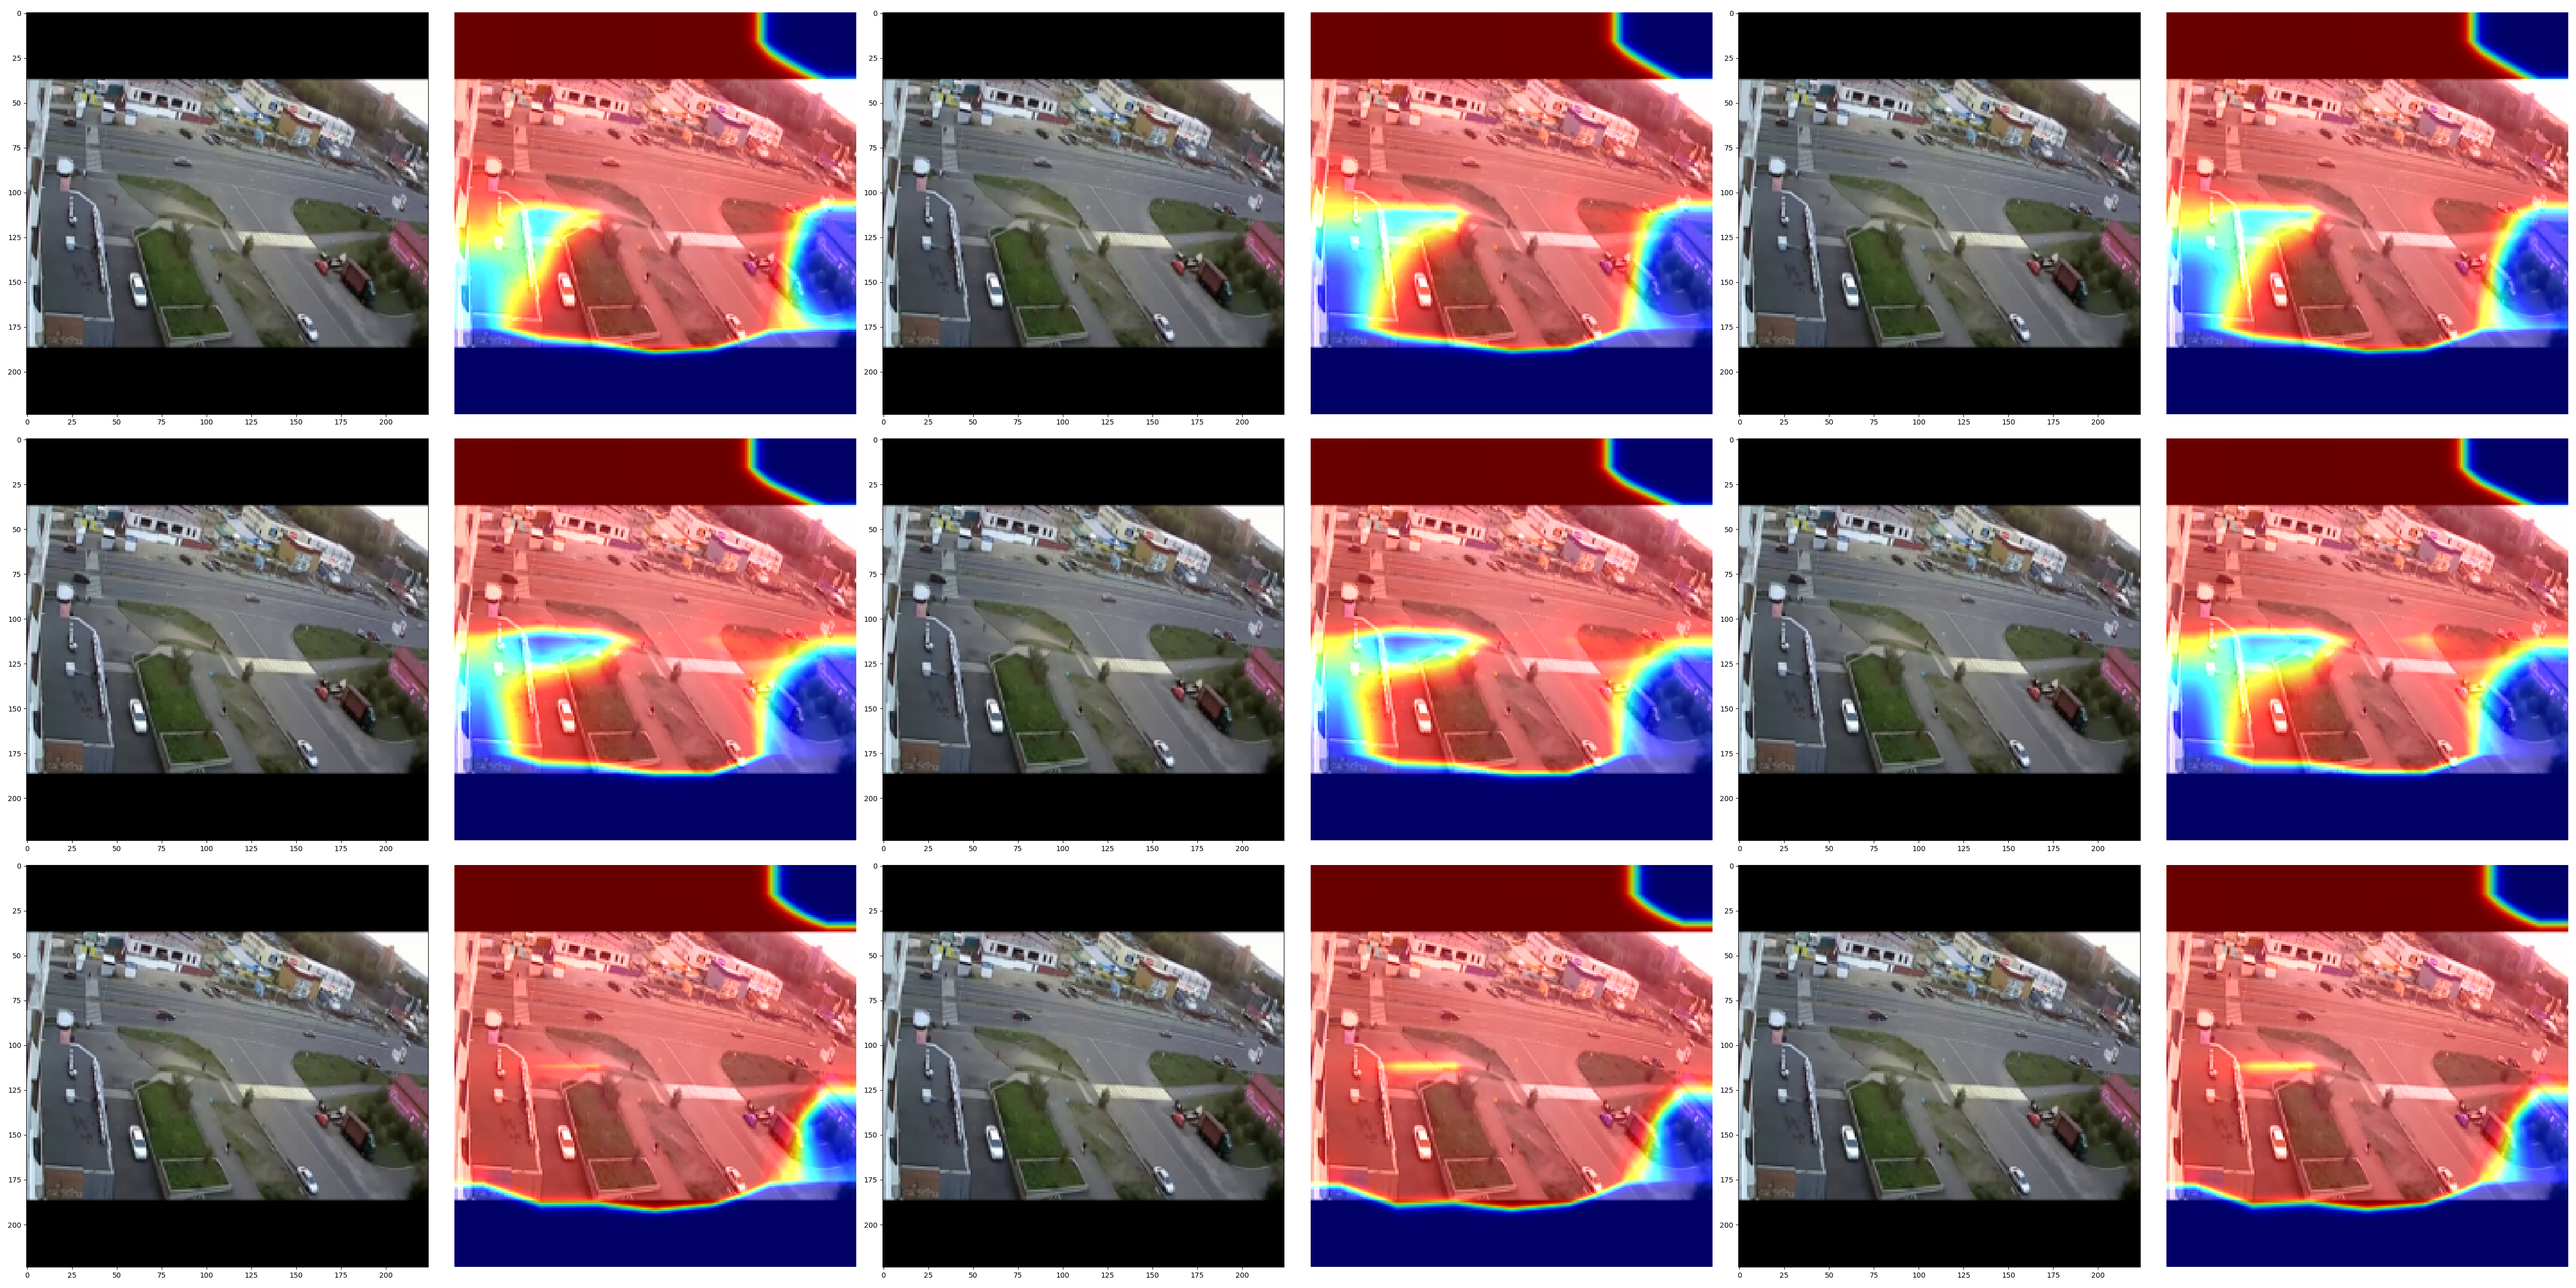
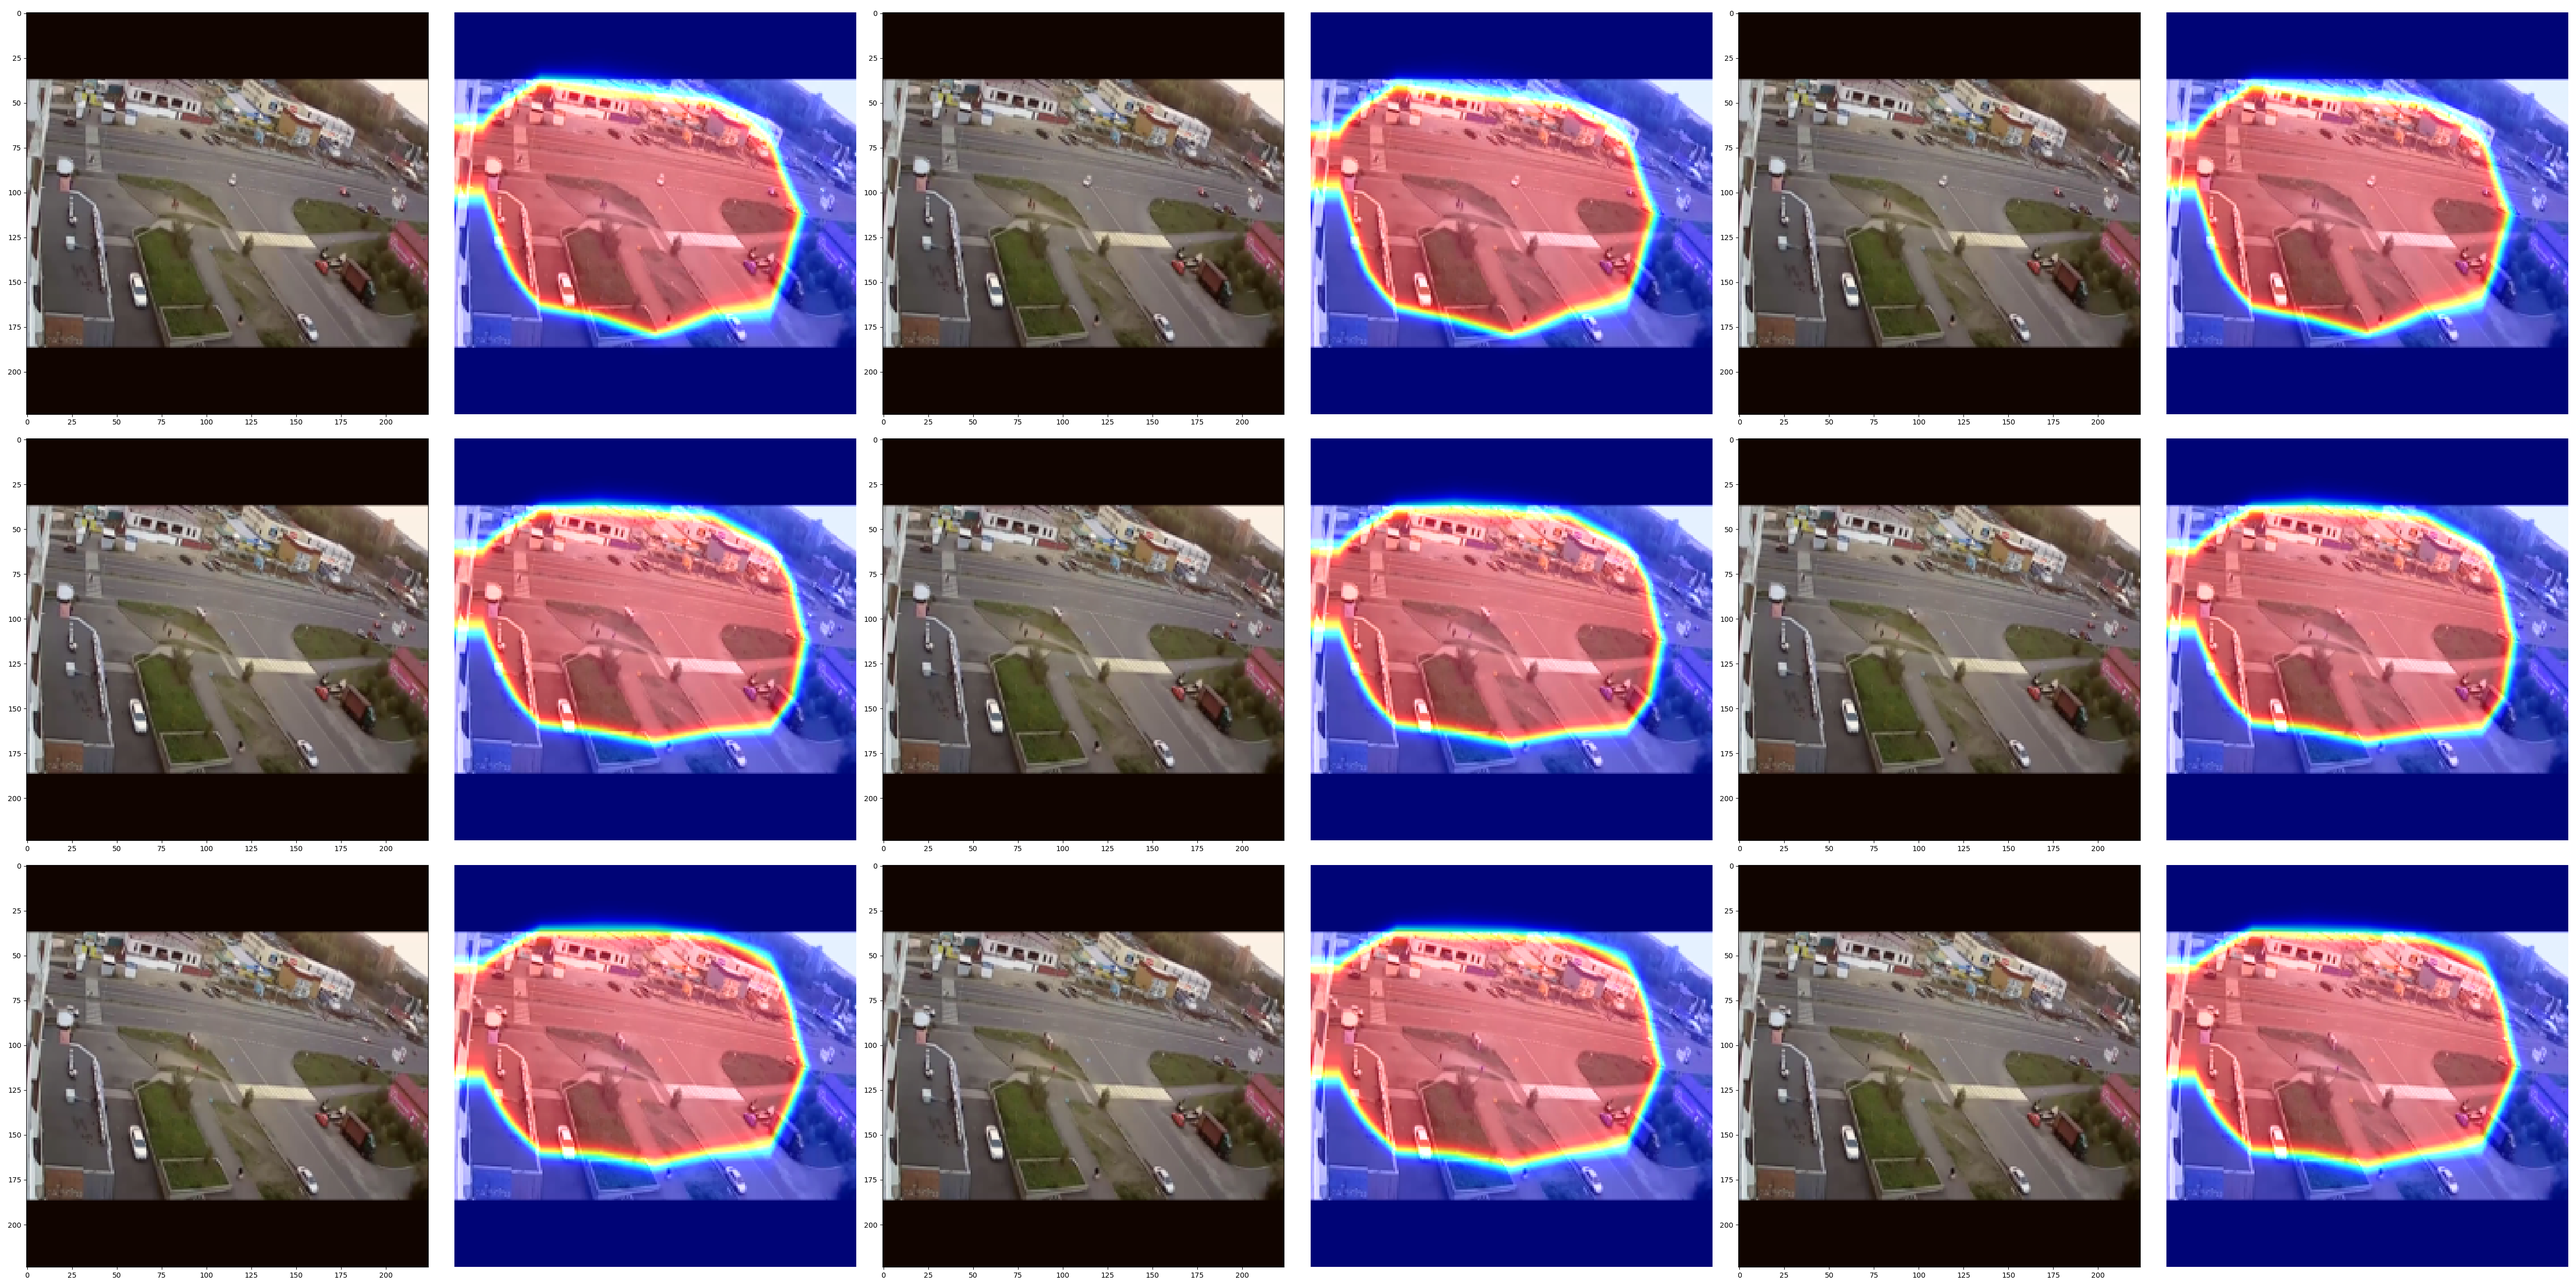
Add select model for prediction

diff --git a/templates/index.html b/templates/index.html
@@ -19,6 +19,21 @@
         </div>
         
         <div class="mb-3">
+            <select class="form-select" aria-label="Default select example" name="model_type">
+                <option selected value="All">All</option>
+                <option value="Mobile-Net">Mobile-Net</option>
+                <option value="VGG16">VGG16</option>
+                <option value="Res-Net 152v2">Res-Net 152v2</option>
+                <option value="Dense-Net 121">Dense-Net 121</option>
+                <option value="Inception v3">Inception v3</option>
+                <option value="CBAM">CBAM</option>
+                <!-- {% for name in backbone_info_name %}
+                    <option value="{{ name }}">{{name}}</option>                
+                {% endfor %} -->
+            </select>
+        </div>
+
+        <div class="mb-3">
             <label for="startTimestamp" class="form-label">Starting timestamp</label>
             <input class="form-control" type="number" placeholder="Default input" aria-label="default input example" id="startTimestamp" min="0" name="start" required>
         </div>
@@ -27,6 +42,7 @@
             <label for="endTimestamp" class="form-label">Ending timestamp</label>
             <input class="form-control" type="number" placeholder="Default input" aria-label="default input example" id="endTimestamp" min="0" name="end" required>
         </div>
+
         
         <button type="submit" class="btn btn-primary">Submit</button>
     </form>

diff --git a/templates/prediction.html b/templates/prediction.html
@@ -4,10 +4,20 @@
   href="{{ url_for('static', filename='prediction/style.css') }}"
 />
 {% endblock %} {% block head %}
-<title>Prediction</title>
+
+{% if model_type is defined %}
+  <title>Prediction with {{model_type}}</title>
+{% else %}
+  <title>Prediction</title>
+{% endif %}
+
 {% endblock %} {% block body %}
 <div class="container-fluid">
-  <h3>Prediction probabilitites</h3>
+  {% if model_type is defined %}
+    <h3>Prediction probabilitites with {{model_type}}</h3>
+  {% else %}
+    <h3>Prediction probabilitites</h3>
+  {% endif %}
   <div class="prediction-prob">
     <p>
       Accident: <span id="accident-propability">{{ accidentProbability }}</span>

diff --git a/models/cbam.py b/models/cbam.py
@@ -1,0 +1,158 @@
+
+from .dependencies import *
+
+class CBAM(keras.layers.Layer):
+    def __init__(self, **kwargs):
+        super().__init__(**kwargs)
+        self.depth_max_pool = keras.layers.Lambda(
+            lambda X: tf.expand_dims(tf.reduce_max(X, axis=-1), -1))
+        self.depth_avg_pool = keras.layers.Lambda(
+            lambda X: tf.expand_dims(tf.reduce_mean(X, axis=-1), -1))
+        self.concat = keras.layers.Lambda(
+            lambda X: tf.concat([X[0], X[1]], axis=-1))
+        self.conv_1 = Conv2D(filters=1, kernel_size=1)
+
+    def call(self, inputs):
+        filters = inputs.shape[-1]
+        U_s = self.concat((self.depth_max_pool(inputs), self.depth_avg_pool(inputs)))
+        V_s = tf.keras.activations.softmax(self.conv_1(U_s))
+        outputs = tf.multiply(inputs, V_s)
+        return outputs
+
+class ResidualUnit(keras.layers.Layer):
+    def __init__(self, filters, strides=1, is_first=False, activation="relu", **kwargs):
+        super().__init__(**kwargs)
+        self.activation = keras.activations.get(activation)
+        self.main_layers = [
+            Conv2D(filters=filters, strides=strides, kernel_size=1, padding="same"),
+            keras.layers.BatchNormalization(),
+            self.activation,
+            Conv2D(filters=filters, kernel_size=3, padding="same"),
+            keras.layers.BatchNormalization(),
+            self.activation,
+            Conv2D(filters=filters * 4, kernel_size=1, padding="same"),
+            keras.layers.BatchNormalization(),
+            CBAM(),
+            keras.layers.BatchNormalization()]
+        self.skip_layers = []
+        if strides > 1 or is_first:
+            self.skip_layers = [
+                Conv2D(filters=filters * 4, kernel_size=1, strides=strides, padding="same"),
+                keras.layers.BatchNormalization()]
+
+    def call(self, inputs):
+        Z = inputs
+        for layer in self.main_layers:
+            Z = layer(Z)
+        skip_Z = inputs
+        for layer in self.skip_layers:
+            skip_Z = layer(skip_Z)
+        return self.activation(Z + skip_Z)
+
+
+        """
+        RES1: input = (56, 56, 64), output = (56, 56, 256)
+        RES2: input = (56, 56, 256), output = (56, 56, 256)
+        RES3: input = (56, 56, 256), output = (56, 56, 256)
+        RES4: input = (56, 56, 256), output = (28, 28, 512)
+        """
+class VisualAttentionModule(keras.layers.Layer):
+  def __init__(self, **kwargs):
+    super().__init__(**kwargs)
+
+    self.output_H = 224
+    self.output_W = 224
+    # , input_shape=(self.output_H, self.output_W, 3)
+    self.conv_2d = Conv2D(64, kernel_size=7, strides=2, padding="same")
+    self.batch_norm = keras.layers.BatchNormalization()
+    self.activation = keras.layers.Activation("relu")
+    self.max_pool_2d = keras.layers.MaxPool2D(pool_size=3, strides=2, padding="SAME")
+    
+    self.filter_list = [64] * 2 + [128] * 4 + [256] * 6 + [512] * 3
+    
+    self.res_unit_list = list()
+    self.res_unit_list.append(ResidualUnit(self.filter_list[0], strides=1, is_first = True))
+    prev_filters = self.filter_list[0]
+    for filters in self.filter_list:
+      strides = 1 if filters == prev_filters else 2
+      self.res_unit_list.append(ResidualUnit(filters, strides=strides, is_first=False))
+      prev_filters = filters 
+
+    self.dimen_reduce = 64
+    self.conv_2d_1 =  Conv2D(filters=self.dimen_reduce, kernel_size=1)
+
+    self.output_H >>= 5
+    self.output_W >>= 5    
+    
+    # self.output_H >>= 4
+    # self.output_W >>= 4
+
+
+  def call(self, inputs):
+    # Z = inputs
+    Z = self.conv_2d(inputs)
+    Z = self.batch_norm(Z)
+    Z = self.activation(Z)
+    Z = self.max_pool_2d(Z)
+    for res_unit in self.res_unit_list:
+      Z = res_unit(Z)       
+    Z = self.conv_2d_1(Z)
+    return Z
+
+  def compute_output_shape(self, batch_input_shape):
+    return tf.TensorShape([None, self.output_H, self.output_W, self.dimen_reduce])
+
+  def get_backbone_input_shape(self):
+    return (224, 224, 3)
+
+class TemporalFeatureExtractor(keras.layers.Layer):
+  def __init__(self, **kwargs):
+    super().__init__(**kwargs)
+
+    self.lstm_layer = ConvLSTM2D(
+        filters=64, kernel_size=(3, 3),
+        dropout=0.2,
+        recurrent_dropout=0.1,
+        return_sequences=False)
+    self.bn_layer = BatchNormalization()
+
+  def call(self, inputs):
+    Z = inputs
+    Z = self.lstm_layer(Z)
+    Z = self.bn_layer(Z)
+
+    return Z
+    
+class DecisionMaker(keras.layers.Layer):
+  def __init__(self, units_1=400, activation_1="tanh", 
+              units_2=100, activation_2="tanh",
+              units_3=1, activation_3="sigmoid", 
+              dropout_rate_1=0.3, dropout_rate_2=0.3, **kwargs):
+    super().__init__(**kwargs)
+    
+    self.globle_pool = GlobalAveragePooling2D()
+    self.flatten = Flatten()
+    self.fc = Dense(units=1, activation='sigmoid')
+
+  def call(self, inputs):
+    Z = inputs
+    Z = self.globle_pool(Z)
+    Z = self.flatten(Z)
+    Z = self.fc(Z)
+    return Z
+
+class AccidentDetector(keras.Model):
+  def __init__(self, backbone, **kwargs):
+    super().__init__(**kwargs)
+    backbone.trainable = False
+
+    self.visual_attention_module = keras.Sequential([backbone])
+    self.temporal_feature_extractor = TemporalFeatureExtractor()
+    self.decision_maker = DecisionMaker()
+  
+  def call(self, inputs):
+    Z = inputs
+    Z = TimeDistributed(self.visual_attention_module)(Z)
+    Z = self.temporal_feature_extractor(Z)
+    Z = self.decision_maker(Z)
+    return Z

diff --git a/app.py b/app.py
@@ -36,14 +36,20 @@ def form_submitted():
         flash('No selected file')
         return redirect(request.url)
     if file and allowed_file(file.filename):
-        print(request.__dict__)
-        filename = secure_filename(file.filename)
-        filename = os.path.join(app.config['UPLOAD_FOLDER'], filename)
-        file.save(filename)
-        start_timestamp = float(request.form['start'])
-        end_timestamp = float(request.form['end'])
-        probability = get_prediction(filename, start_timestamp, end_timestamp)[0][0]
-        return render_template('prediction.html', accidentProbability="%.2f" % probability, noAccidentProbability="%.2f" % (1 - probability))
+        model_type = request.form['model_type']
+        model_type_lower = model_type.replace(" ", "").replace("-", "").lower()
+        if model_type == "All":
+            #TODO
+            probability = 0.44444444
+            return render_template('prediction.html', accidentProbability="%.2f" % probability, noAccidentProbability="%.2f" % (1 - probability))
+        else:
+            filename = secure_filename(file.filename)
+            filename = os.path.join(app.config['UPLOAD_FOLDER'], filename)
+            file.save(filename)
+            start_timestamp = float(request.form['start'])
+            end_timestamp = float(request.form['end'])
+            probability = get_prediction(filename, start_timestamp, end_timestamp, model_type_lower)[0][0]
+            return render_template('prediction.html', accidentProbability="%.2f" % probability, noAccidentProbability="%.2f" % (1 - probability), model_type=model_type)
     return redirect(request.url)
 
     # probability = 0.44444
@@ -59,7 +65,9 @@ def about_us():
 
 @app.route('/')
 def index():
-    return render_template('index.html')
+    backbone_info = CONFIG_DICT["backbones"]["info"]
+    backbone_info_name = [info.name for info in backbone_info]
+    return render_template('index.html', backbone_info_name=backbone_info_name)
 
 if __name__ == "__main__":
     app.run(debug=True)

diff --git a/models/model_conv3d.py b/models/model_conv3d.py
@@ -2,6 +2,8 @@
 
 from .defines import CONFIG_DICT
 from .utilities import BackboneHandler, AccidentDetector
+from .cbam import AccidentDetector as CBAMAccidentDetector
+from .cbam import VisualAttentionModule
 
 def get_file_weights_name(backbone_name):
   return "models/model_weights/" + backbone_name + '_weight.h5'
@@ -15,15 +17,22 @@ def construct_model(backbone_name="mobilenet"):
       + Backbone prepocess function
     **
   """
-
-  if backbone_name not in CONFIG_DICT["backbones"]:
-    raise AssertionError("No backbone found!")
-
+  print(backbone_name)
+    
   BACKBONE_NAME = backbone_name
-  handler = BackboneHandler(BACKBONE_NAME)
-  backbone = handler.get_model()
-  # backbone.summary()
-  model = AccidentDetector(backbone)
+  
+  if backbone_name == "cbam":
+    handler = BackboneHandler("resnet152v2")
+    backbone = VisualAttentionModule()
+    backbone.build((None, *handler.get_backbone_input_shape()))
+    model = CBAMAccidentDetector(backbone)
+  else:
+    if backbone_name not in CONFIG_DICT["backbones"]:
+      raise AssertionError("No backbone found!")
+    handler = BackboneHandler(BACKBONE_NAME)
+    backbone = handler.get_model()
+    # backbone.summary()
+    model = AccidentDetector(backbone)
   model.build((None, None, *handler.get_backbone_input_shape()))
   model.summary()
   # model.compile(optimizer=Adam(0.0001), loss=BinaryCrossentropy(), metrics=['accuracy', Precision(), Recall()])

diff --git a/accident_detection.py b/accident_detection.py
@@ -57,10 +57,12 @@ def predict(video_name="", start_timestamp=0, end_timestamp=3, backbone_name="mo
     model, backbone, input_size, preprocess_func = construct_model(backbone_name)
 
     processed_video = process_video(video_name, start_timestamp, end_timestamp, input_size, preprocess_func)
-
+    #not good
+    if backbone_name == "cbam":
+        return model.predict(processed_video), save_grad_cam(model, processed_video[0])
     return model.predict(processed_video), save_grad_cam(backbone, processed_video[0])
 
-def get_prediction(video_name="videos/RoadAccidents002_x264.mp4", start_timestamp=0, end_timestamp=3):
-    prediction, grad_cam_path = predict(video_name, start_timestamp, end_timestamp)
+def get_prediction(video_name="videos/RoadAccidents002_x264.mp4", start_timestamp=0, end_timestamp=3, backbone_name="mobilenet"):
+    prediction, grad_cam_path = predict(video_name, start_timestamp, end_timestamp, backbone_name)
 
     return prediction, grad_cam_path

diff --git a/models/dependencies.py b/models/dependencies.py
@@ -3,4 +3,4 @@ import numpy as np
 import tensorflow as tf
 from tensorflow import keras
 from tensorflow.keras.models import Model
-from tensorflow.keras.layers import InputLayer, Input, TimeDistributed, ConvLSTM2D, BatchNormalization, Flatten, Dense, Dropout, GlobalAveragePooling2D, Lambda, Conv3D, MaxPooling3D
+from tensorflow.keras.layers import InputLayer, Input, TimeDistributed, ConvLSTM2D, BatchNormalization, Flatten, Dense, Dropout, GlobalAveragePooling2D, Lambda, Conv3D, MaxPooling3D, Conv2D
